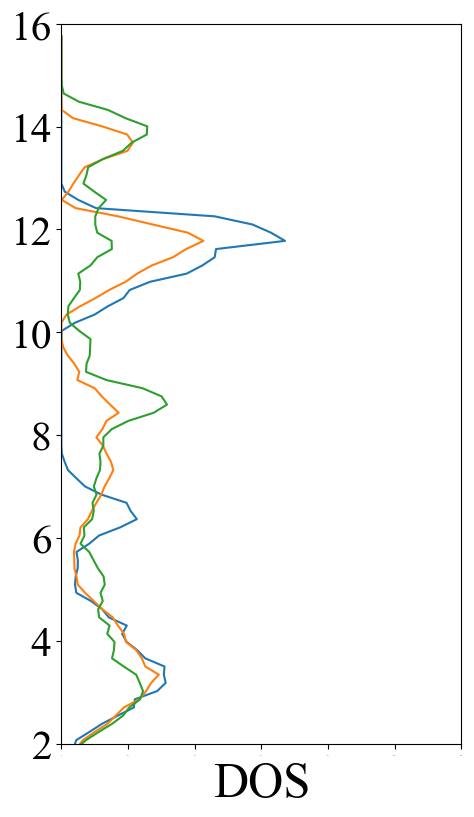
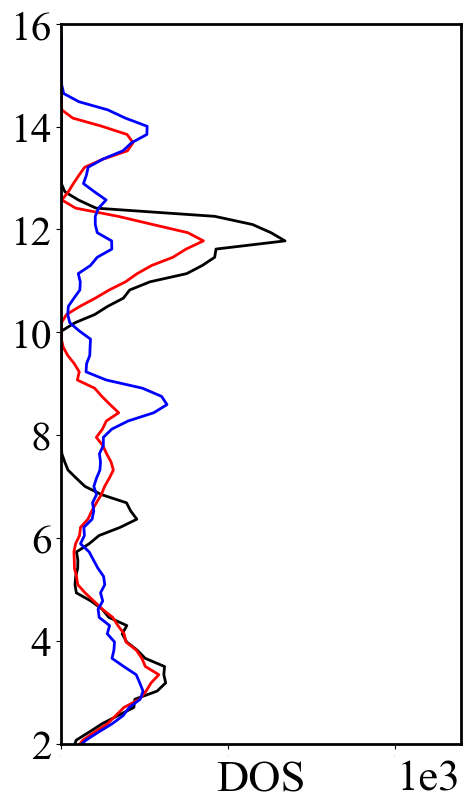
combine the configs

Changed region(s): [[0.0295, 0.0309, 0.9747, 0.9877], [0.9451, 0.0309, 0.9747, 0.0617], [0.0591, 0.1543, 0.0886, 0.1852]]

diff --git a/gv.py b/gv.py
@@ -4,78 +4,50 @@
 
 import matplotlib.pyplot as plt
 import matplotlib.pylab as pylab
-import configPlot
 import numpy as np
 import math as m
 import os
 import sys
+lib_path = os.path.abspath(os.path.join('./config'))
+sys.path.append(lib_path)
+import configPlot
+import config
 
 params = configPlot.params
 pylab.rcParams.update(params)
 
 case = sys.argv
-if case[1] == '2cell':
-	pathFile = '2cellThreeTypicalStructure'
+if case[1] == '211cell':
+	configs = config.configs211cellGv
 elif case[1] == '421cell':
-	pathFile = '421cellDiffMixInterfaces'
+	configs = config.configs421cellGv
 else:
-	pathFile = '2cellThreeTypicalStructure'
+	configs = config.configs211cellGv
 	print('请输入2cell或者421cell，默认为2cell')
 
-lib_path = os.path.abspath(os.path.join(pathFile))
-sys.path.append(lib_path)
-import config
-configs = config.configsGv
-
+pathFile = configs['pathFile']
 path_list=configs['path_list']
 case_name_list=configs['case_name_list']
-
-
-#path_list=['macplot/ShortperiodSL/','macplot/Amorphousalloy/','macplot/Layerstructure/']
-#case_name_list=['Short \nperiod SL','Amorphous \nalloy','Layered \nstructure']
+case_colors = configs['case_colors']
+lineList=configs['line']
+linewidthList=configs['linewidth']
 
 ax_g = plt.subplot(1,1,1)
 for i in range(len(path_list)):
-	path=path_list[i]
-	case_name=case_name_list[i]
-	omega=np.loadtxt(path+'simplifiedOmega')
-	gv=np.loadtxt(path+'dosWeighedGv')
-	omegaTHZ=[x/(2*m.pi) for x in omega]
-	###########
-	# plot part
-	###########
-	linewidth = 2
-	if (i + 1) % 3 == 0:
-		label = case_name
-	else:
-		label = ''
-	if i//3 == 2:
-		color = 'red'
-		line = '-'
-		linewidth = 3
-	elif i//3 == 1:
-		color = 'black'
-		line = '-'
-	else:
-		color = 'orange'
-		line = '-'
+    path=path_list[i]
+    case_name=case_name_list[i]
+    color=case_colors[i]
+    line=lineList[i]
+    linewidth=linewidthList[i]
+    omega=np.loadtxt(path+'simplifiedOmega')
+    gv=np.loadtxt(path+'dosWeighedGv')
+    omegaTHZ=[x/(2*m.pi) for x in omega]
+    ###########
+    # plot part
+    ###########
 
-	if case_name  == 'Si':
-		label = case_name
-		line = '--'
-		color = 'green'
-	if case_name  == 'Ge':
-		label = case_name
-		line = '--'
-		color = 'purple'
-	if case_name  == 'Smooth interface':
-		label = case_name
-		line = '-'
-		color = 'blue'
-		linewidth = 3
-
-	ax_g.plot(omegaTHZ,gv,line ,color=color,linewidth=linewidth,label=label)
-	ax_g.legend(loc=0,frameon=False)
+    ax_g.plot(omegaTHZ,gv,line ,color=color,linewidth=linewidth,label=case_name)
+    ax_g.legend(loc=0,frameon=False)
 
 ax_g.set_xlabel(r'$\omega$' +'(THz)')
 ax_g.set_ylabel('<'+r'$v_g^2$'+'>'+'('+r'$ \mathrm{km}^2/ \mathrm{s}^2$'+')')

diff --git a/config/config.py b/config/config.py
@@ -1,0 +1,51 @@
+# 211cell 的配置文件
+configs211cellGv = {
+    'pathFile': '2cellThreeTypicalStructure',
+    'path_list': ['2cellThreeTypicalStructure/macplot/ShortperiodSL/',
+                  '2cellThreeTypicalStructure/macplot/Amorphousalloy/',
+                  '2cellThreeTypicalStructure/macplot/Layerstructure/'],
+    'case_name_list': ['Short period SL','Amorphous alloy','Layer structure'],
+    'case_colors': ['black', 'red', 'blue'],
+    'line': ['-', '-', '-'],
+    'linewidth': [2, 2, 2]
+}
+
+configs211cellDos = {
+    'pathFile': '2cellThreeTypicalStructure',
+    'path_list': ['2cellThreeTypicalStructure/macplot/ShortperiodSL/',
+                  '2cellThreeTypicalStructure/macplot/Amorphousalloy/',
+                  '2cellThreeTypicalStructure/macplot/Layerstructure/'],
+    'case_name_list': ['Short period SL', 'Amorphous alloy', 'Layer structure'],
+    'case_colors': ['black', 'red', 'blue'],
+    'line': ['-', '-', '-'],
+    'linewidth': [2, 2, 2]
+}
+
+# 421cell 的配置文件
+high = "421cellDiffMixInterfaces/macplot/highMixed"
+mid = "421cellDiffMixInterfaces/macplot/midMixed"
+un = "421cellDiffMixInterfaces/macplot/unMixed"
+unRough = "421cellDiffMixInterfaces/macplot"
+
+configs421cellDos = {
+    'pathFile': '421cellDiffMixInterfaces',
+    'path_list': [high + str(i + 1) + '/' for i in range(3)] + [mid + str(i + 1) + '/' for i in range(3)] + [
+        un + str(i + 1) + '/' for i in range(3)] + [unRough+ '/specularity/'] + [unRough + '/Si/', unRough + '/Ge/'],
+    'case_name_list': ['Highly mixed', None, None, 'Moderately mixed', None,
+                       None, 'Unmixed', None, None, 'Smooth interface', 'Si', 'Ge'],
+    'case_colors': ['orange', 'orange', 'orange', 'black', 'black', 'black', 'red', 'red', 'red', 'blue', 'purple', 'green'],
+    'line': ['-', '-', '-', '-', '-', '-', '-', '-', '-', '-','--','--'],
+    'linewidth': [2, 2, 2, 2, 2, 2, 3, 3, 3, 3, 2 ,2]
+}
+
+# without Si Ge (和alloy 的gv 相差太大，画在一起不好看)
+configs421cellGv = {
+    'pathFile': '421cellDiffMixInterfaces',
+    'path_list': [high + str(i + 1) + '/' for i in range(3)] + [mid + str(i + 1) + '/' for i in range(3)] + [
+        un + str(i + 1) + '/' for i in range(3)] + [unRough+ '/specularity/'],
+    'case_name_list': ['Highly mixed', None, None, 'Moderately mixed', None, None, 'Unmixed', None, None,
+                       'Smooth interface'],
+    'case_colors': ['orange', 'orange', 'orange', 'black', 'black', 'black', 'red', 'red', 'red', 'blue'],
+    'line': ['-', '-', '-', '-', '-','-', '-', '-', '-', '-'],
+    'linewidth': [2, 2, 2, 2, 2, 2, 3, 3, 3, 3]
+}

diff --git a/DOS-421cell.py b/DOS-421cell.py
@@ -1,35 +1,42 @@
 import matplotlib.pyplot as plt
 import matplotlib.pylab as pylab
-import configPlot
 import numpy as np
 import math as m
 import sys
 import os
+
+lib_path = os.path.abspath(os.path.join('./config'))
+sys.path.append(lib_path)
+import configPlot
+import config
+
 params = configPlot.params
 pylab.rcParams.update(params)
 
 case = sys.argv
 if case[1] == '2cell':
-	pathFile = '2cellThreeTypicalStructure'
+	configs = config.configs211cellDos
 elif case[1] == '421cell':
-	pathFile = '421cellDiffMixInterfaces'
+	configs = config.configs421cellDos
 else:
-	pathFile = '2cellThreeTypicalStructure'
+	configs = config.configs211cellDos
 	print('请输入2cell或者421cell，默认为2cell')
 
-lib_path = os.path.abspath(os.path.join(pathFile))
-sys.path.append(lib_path)
-import config
-configs = config.configsDos
 
+pathFile = configs['pathFile']
 path_list=configs['path_list']
 case_name_list=configs['case_name_list']
-
+case_colors = configs['case_colors']
+lineList=configs['line']
+linewidthList=configs['linewidth']
 ax_d = plt.subplot(1,1,1)
 
 for i in range(len(path_list)):
 	path=path_list[i]
 	case_name=case_name_list[i]
+	color = case_colors[i]
+	line = lineList[i]
+	linewidth = linewidthList[i]
 	omega=np.loadtxt(path+'simplifiedOmega')
 	DOS=np.loadtxt(path+'dos')
 	omegaTHZ=[x/(2*m.pi) for x in omega]
@@ -38,42 +45,15 @@ for i in range(len(path_list)):
 	############
 	# ax_d.set_yscale('log')
 	ax_d.set_yticks([])
-	line = '-'
-	linewidth = 2
-	if i % 3 == 0:
-		label = case_name
-	else:
-		label = ''
-	if i// 3 == 2:
-		color = 'red'
-		linewidth = 3
-	elif i // 3 == 1:
-		color = 'black'
-	else:
-		color = 'orange'
+	ax_d.plot(omegaTHZ, DOS, line , color=color, linewidth = linewidth, label=case_name)
 
-	if case_name  == 'Si':
-		label = case_name
-		line = '--'
-		color = 'green'
-	if case_name  == 'Ge':
-		label = case_name
-		line = '--'
-		color = 'purple'
-	if case_name  == 'Smooth interface':
-		label = case_name
-		line = '-'
-		color = 'blue'
-		linewidth = 3
 
-	ax_d.plot(omegaTHZ, DOS, line , color=color, linewidth = linewidth, label=label)
+
 ax_d.legend(loc=0, frameon=False)
 ax_d.set_ylabel('DOS')
 ax_d.set_xlabel(r'$\omega$' + '(THz)')
-	# ax_d.set_xlim(0, 1200)
-	# ax_d.set_ylim(2, 16)
+# ax_d.set_xlim(0, 1200)
+# ax_d.set_ylim(2, 16)
 
-# plt.yticks(size=30)
-# plt.xticks(size=0)
 #plt.show()
 plt.savefig(pathFile+'/Dos.png',bbox_inches='tight')

diff --git a/DOS-2cell.py b/DOS-2cell.py
@@ -1,33 +1,42 @@
-#########################################
-#this code study the k gv[x] lifetime versue omeg scat_combine_bands_DOSW_addk.py
-#########################################
 import matplotlib.pyplot as plt
+import matplotlib.pylab as pylab
 import numpy as np
 import math as m
 import sys
 import os
 
+lib_path = os.path.abspath(os.path.join('./config'))
+sys.path.append(lib_path)
+import configPlot
+import config
+
+params = configPlot.params
+pylab.rcParams.update(params)
+
 case = sys.argv
 if case[1] == '2cell':
-	pathFile = '2cellThreeTypicalStructure'
+	configs = config.configs211cellDos
 elif case[1] == '421cell':
-	pathFile = '421cellDiffMixInterfaces'
+	configs = config.configs421cellDos
 else:
-	pathFile = '2cellThreeTypicalStructure'
+	configs = config.configs211cellDos
 	print('请输入2cell或者421cell，默认为2cell')
 
-lib_path = os.path.abspath(os.path.join(pathFile))
-sys.path.append(lib_path)
-import config
-configs = config.configs
 
-plt.rc('font',family='Times New Roman')
-plt.rcParams['mathtext.fontset'] = 'stix'
-
+pathFile = configs['pathFile']
 path_list=configs['path_list']
 case_name_list=configs['case_name_list']
+case_colors = configs['case_colors']
+lineList=configs['line']
+linewidthList=configs['linewidth']
 
-font={'size':'35', 'weight':'normal'}
+# plt.rc('font',family='Times New Roman')
+# plt.rcParams['mathtext.fontset'] = 'stix'
+
+# path_list=configs['path_list']
+# case_name_list=configs['case_name_list']
+
+# font={'size':'35', 'weight':'normal'}
 plt.figure(figsize=(8,9))
 ax_d = plt.subplot(1,1,1)
 plt.subplots_adjust(left=0.3, bottom=0.1, right=0.8, top=0.9)
@@ -35,14 +44,17 @@ plt.subplots_adjust(left=0.3, bottom=0.1, right=0.8, top=0.9)
 for i in range(len(path_list)):
 	path=path_list[i]
 	case_name=case_name_list[i]
+	color = case_colors[i]
+	line = lineList[i]
+	linewidth = linewidthList[i]
 	omega=np.loadtxt(path+'simplifiedOmega')
 	DOS=np.loadtxt(path+'dos')
 	omegaTHZ=[x/(2*m.pi) for x in omega]
 	###########
 	# plot part
 	############
-	ax_d.plot(DOS,omegaTHZ,'-',ms=2,mew=1,label=case_name)
-	ax_d.set_xlabel('DOS', font)
+	ax_d.plot(DOS,omegaTHZ,line , color=color, linewidth = linewidth, label=case_name)
+	ax_d.set_xlabel('DOS')
 	ax_d.set_xlim(0, 1200)
 	ax_d.set_ylim(2, 16)
 

diff --git a/k.py b/k.py
@@ -4,16 +4,27 @@
 
 import matplotlib.pyplot as plt
 import matplotlib.pylab as pylab
-import configPlot
 import numpy as np
 import math as m
+import os
+import sys
+lib_path = os.path.abspath(os.path.join('./config'))
+sys.path.append(lib_path)
+import configPlot
+import config
+
 params = configPlot.params
 pylab.rcParams.update(params)
+configs = config.configs211cell
 
-plt.rc('font',family='Times New Roman')
+path_list=configs['path_list']
+case_name_list=configs['case_name_list']
 
-path_list=['macplot/ShortperiodSL/','macplot/Amorphousalloy/','macplot/Layerstructure/']
-case_name_list=['Short period SL','Amorphous alloy','Layered structure']
+# plt.rc('font',family='Times New Roman')
+
+# path_list=['macplot/ShortperiodSL/','macplot/Amorphousalloy/','macplot/Layerstructure/']
+# case_name_list=['Short period SL','Amorphous alloy','Layered structure']
+
 ax_k = plt.subplot(1,1,1)
 for i in range(len(path_list)):
 	path=path_list[i]
@@ -30,4 +41,4 @@ for i in range(len(path_list)):
 	ax_k.set_xlabel(r'$\omega$' +'(THz)')
 	ax_k.set_ylabel(r'$k$'+'(W/(m-K))')
 	print(case_name,":",sum(k))
-plt.savefig('K.png', bbox_inches='tight')
+plt.savefig('2cellThreeTypicalStructure'+'/K.png', bbox_inches='tight')
